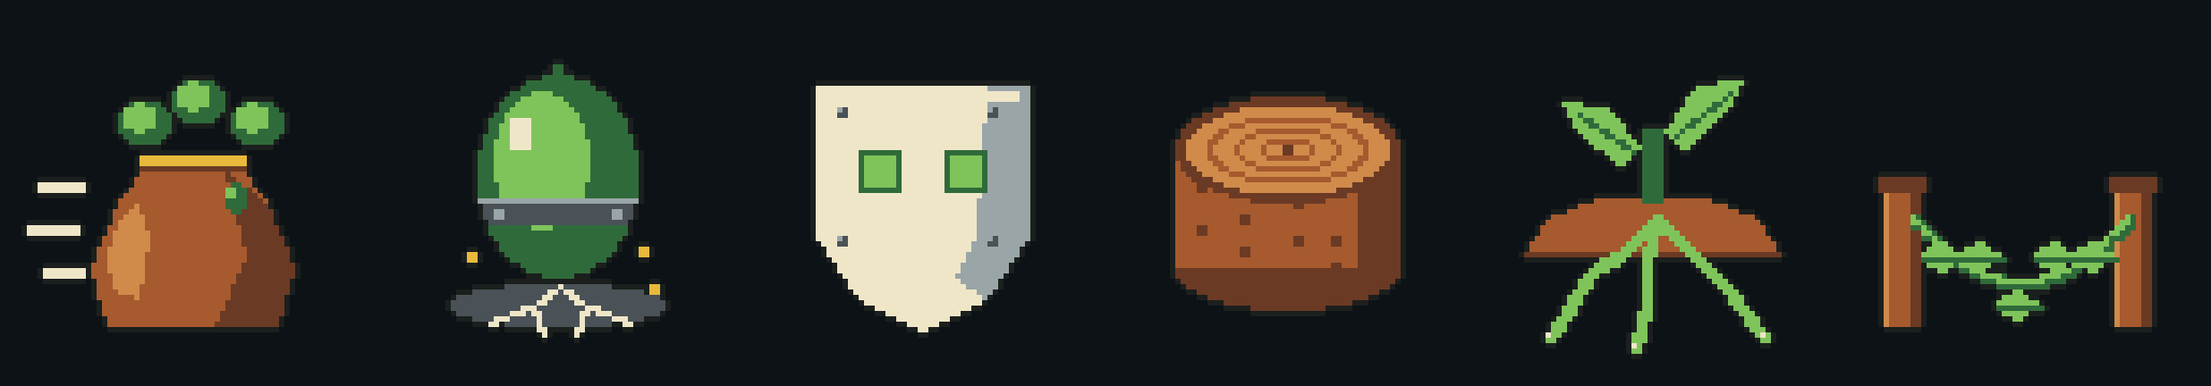
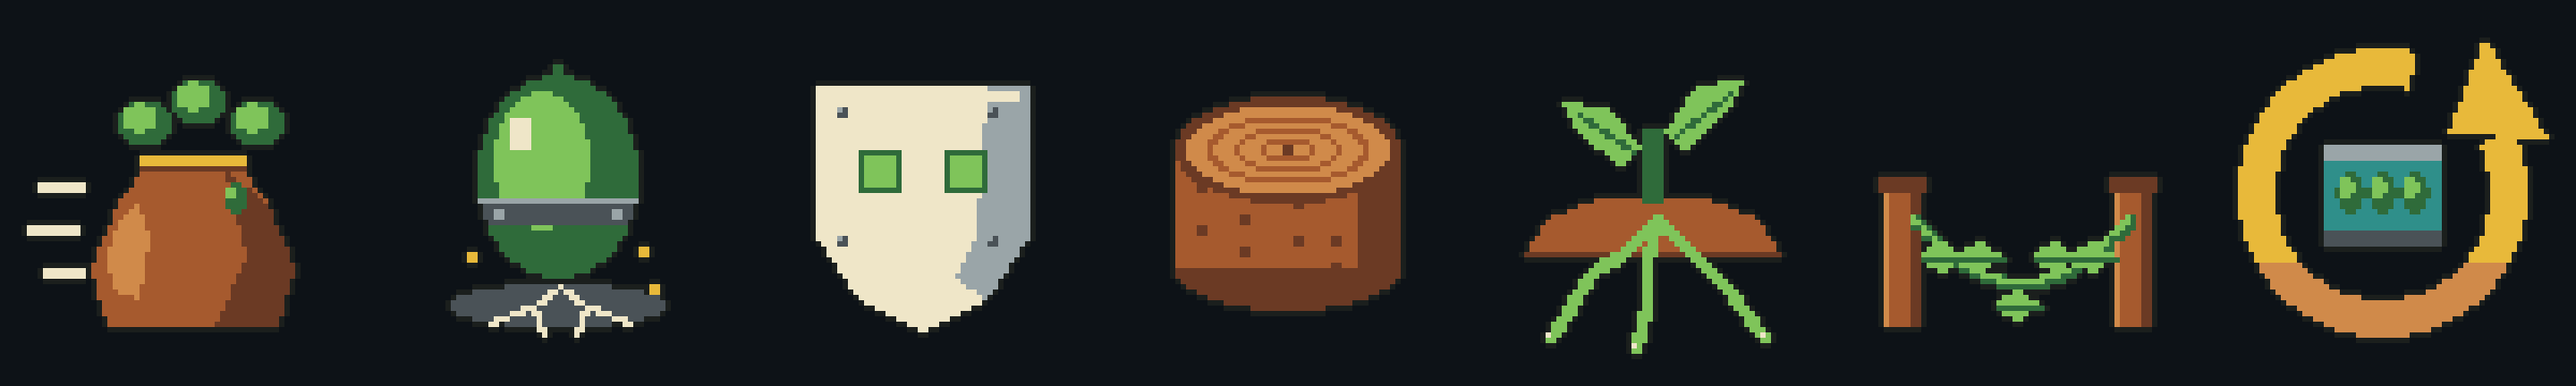
Quick Reload card art: gold reload arrow round a seed canister

diff --git a/art/source/klad/upgrades/make_upgrade_icons.py b/art/source/klad/upgrades/make_upgrade_icons.py
@@ -358,6 +358,32 @@ def draw_repair():
     return g
 
 
+def draw_quick_reload():
+    """Quick Reload (s22): a gold arrow running round in a circle (the reload) about a
+    teal seed canister with three green pods lined up in it (the load)."""
+    g = Grid()
+    # The ring: everything inside a big circle but outside a smaller one...
+    ring = both(ellipse(32, 32, 27, 27), not_(ellipse(32, 32, 20, 20)))
+    # ...with a wedge cut out at the top right, where the arrowhead will point.
+    gap = polygon([(32, 32), (40, 0), (64, 0), (64, 16)])
+    open_ring = both(ring, not_(gap))
+    g.fill(open_ring, "gold")
+    # Shade the lower part of the ring (light from the top left). A lambda is a
+    # one-line function: here "is this pixel below row 44?".
+    g.fill(both(open_ring, lambda x, y: y > 44), "rust-light")
+    # The arrowhead at the end of the ring beside the wedge, pointing clockwise.
+    g.fill(polygon([(51, 3), (63, 22), (44, 21)]), "gold")
+    # The canister: a teal box in the middle, light lid on top, dark base below.
+    g.fill(box(21, 23, 22, 19), "teal")
+    g.fill(box(21, 23, 22, 3), "steel-light")
+    g.fill(box(21, 39, 22, 3), "steel-dark")
+    # Three pods in a row inside it: a dark base with a light top, like the other cards.
+    for cx in (26, 32, 38):
+        g.fill(ellipse(cx, 32, 2.6, 4.0), "leaf-dark")
+        g.fill(ellipse(cx - 0.6, 31, 1.4, 2.2), "leaf-light")
+    return g
+
+
 ICONS = [
     ("seed_pouch", draw_seed_pouch),
     ("heavy_seeds", draw_heavy_seeds),
@@ -365,6 +391,7 @@ ICONS = [
     ("hardwood", draw_hardwood),
     ("quick_roots", draw_quick_roots),
     ("long_trellis", draw_long_trellis),
+    ("quick_reload", draw_quick_reload),
 ]
 
 
